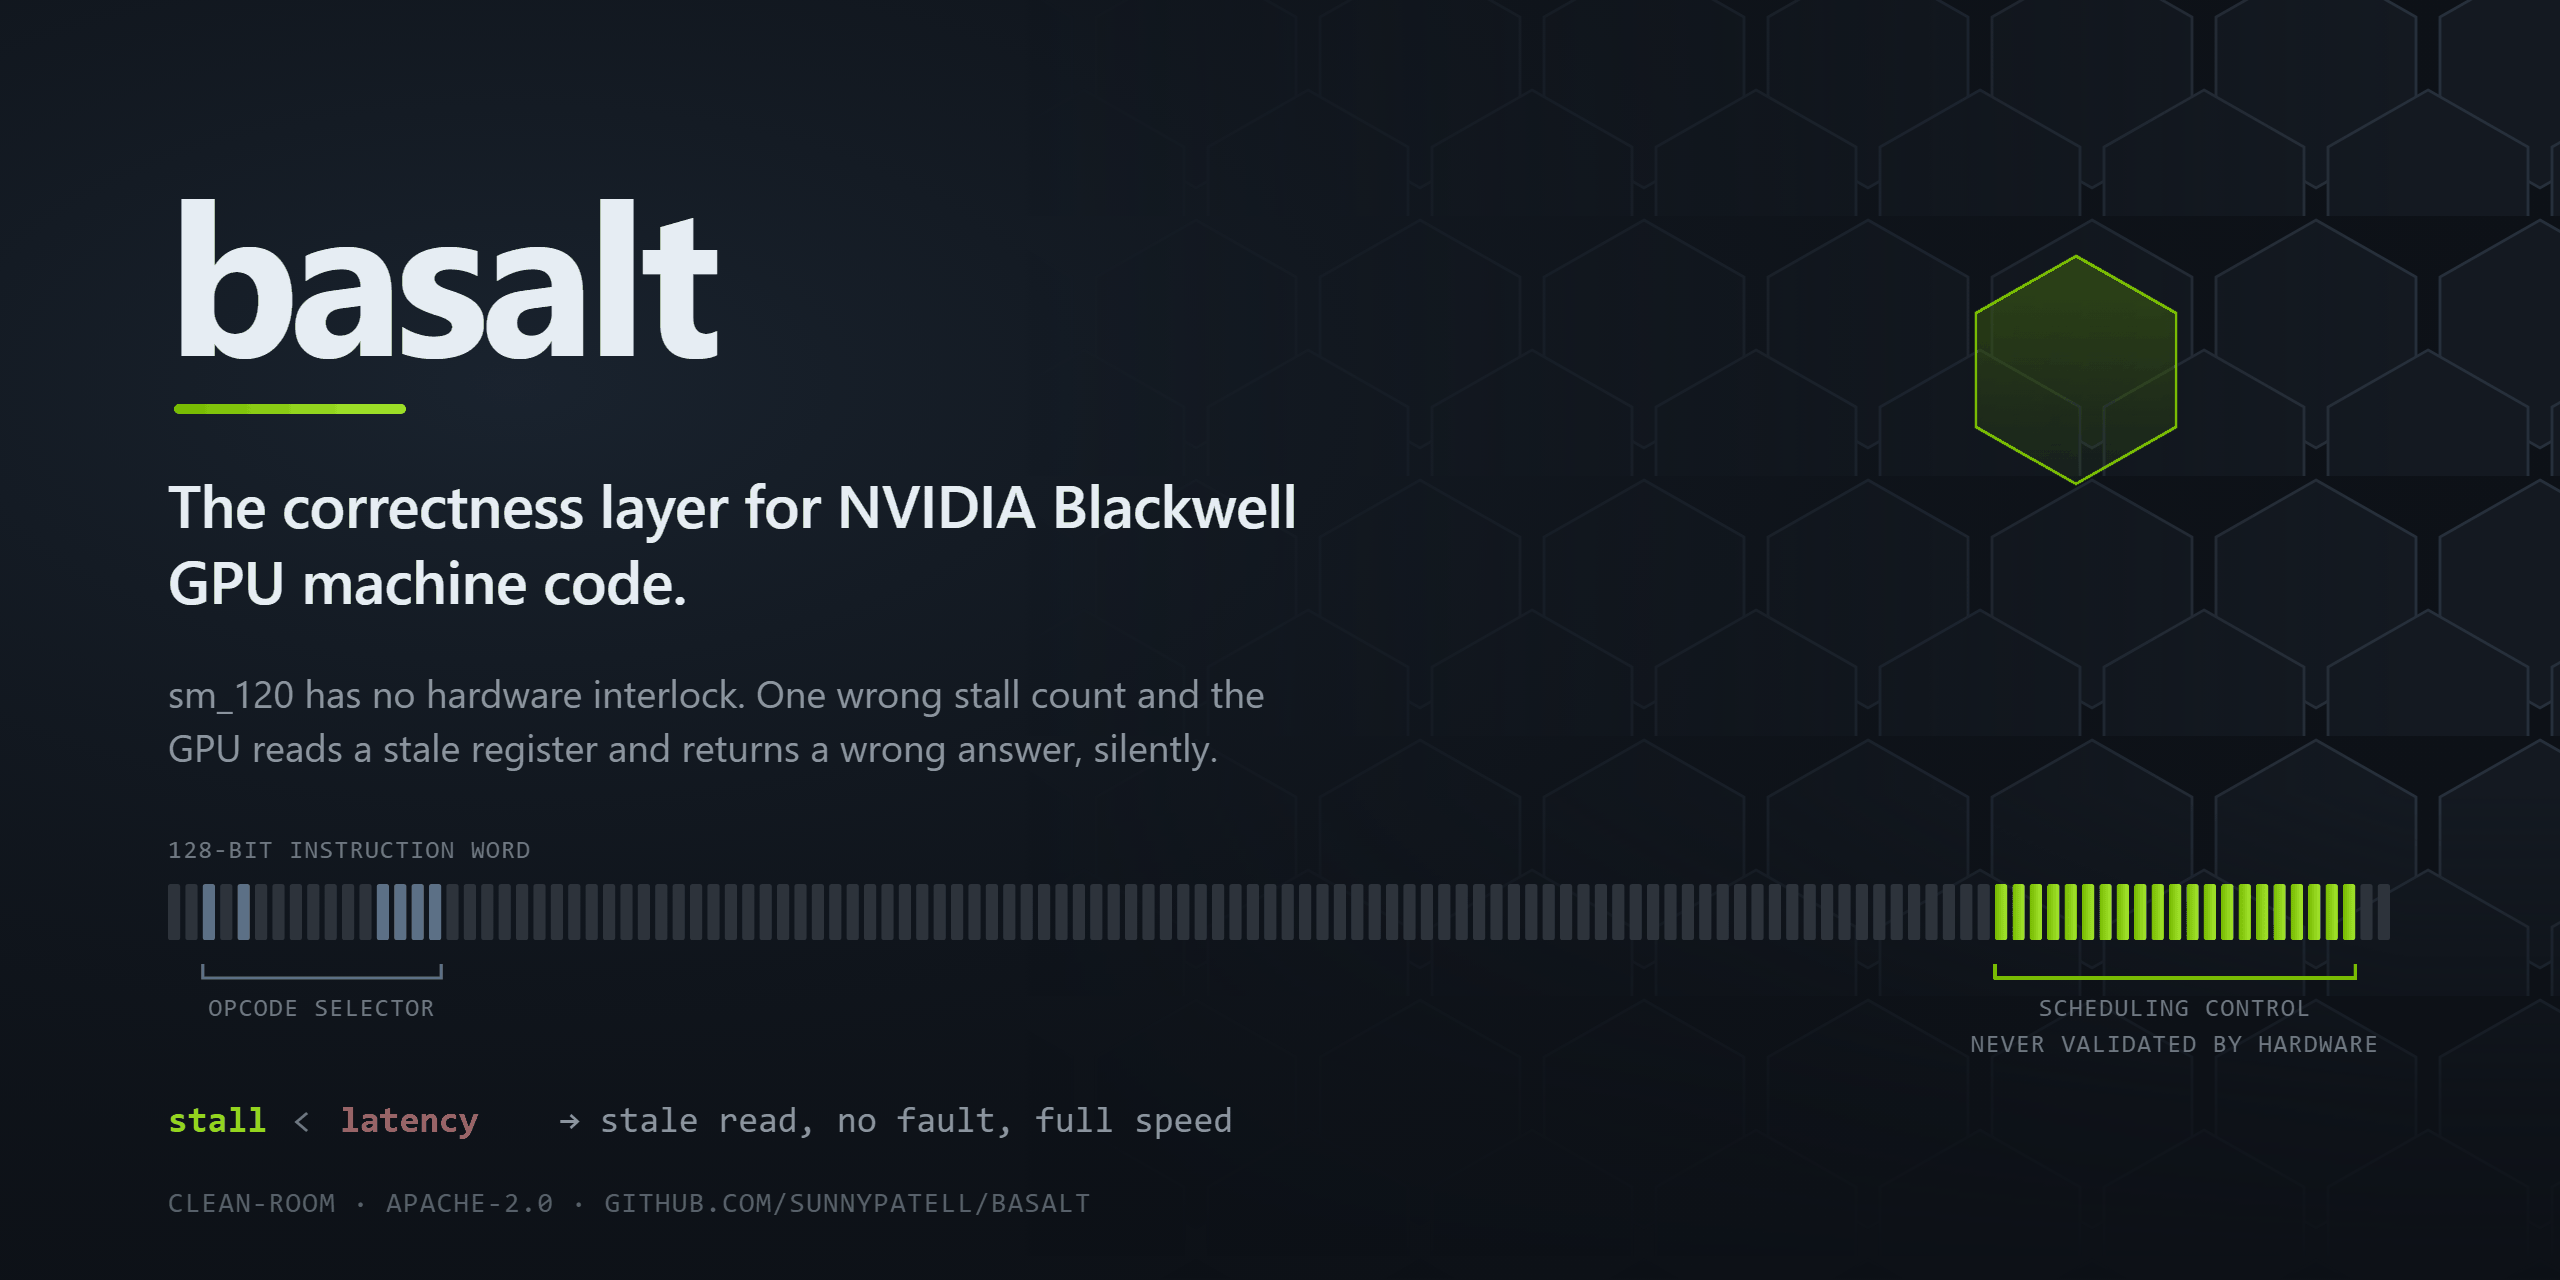
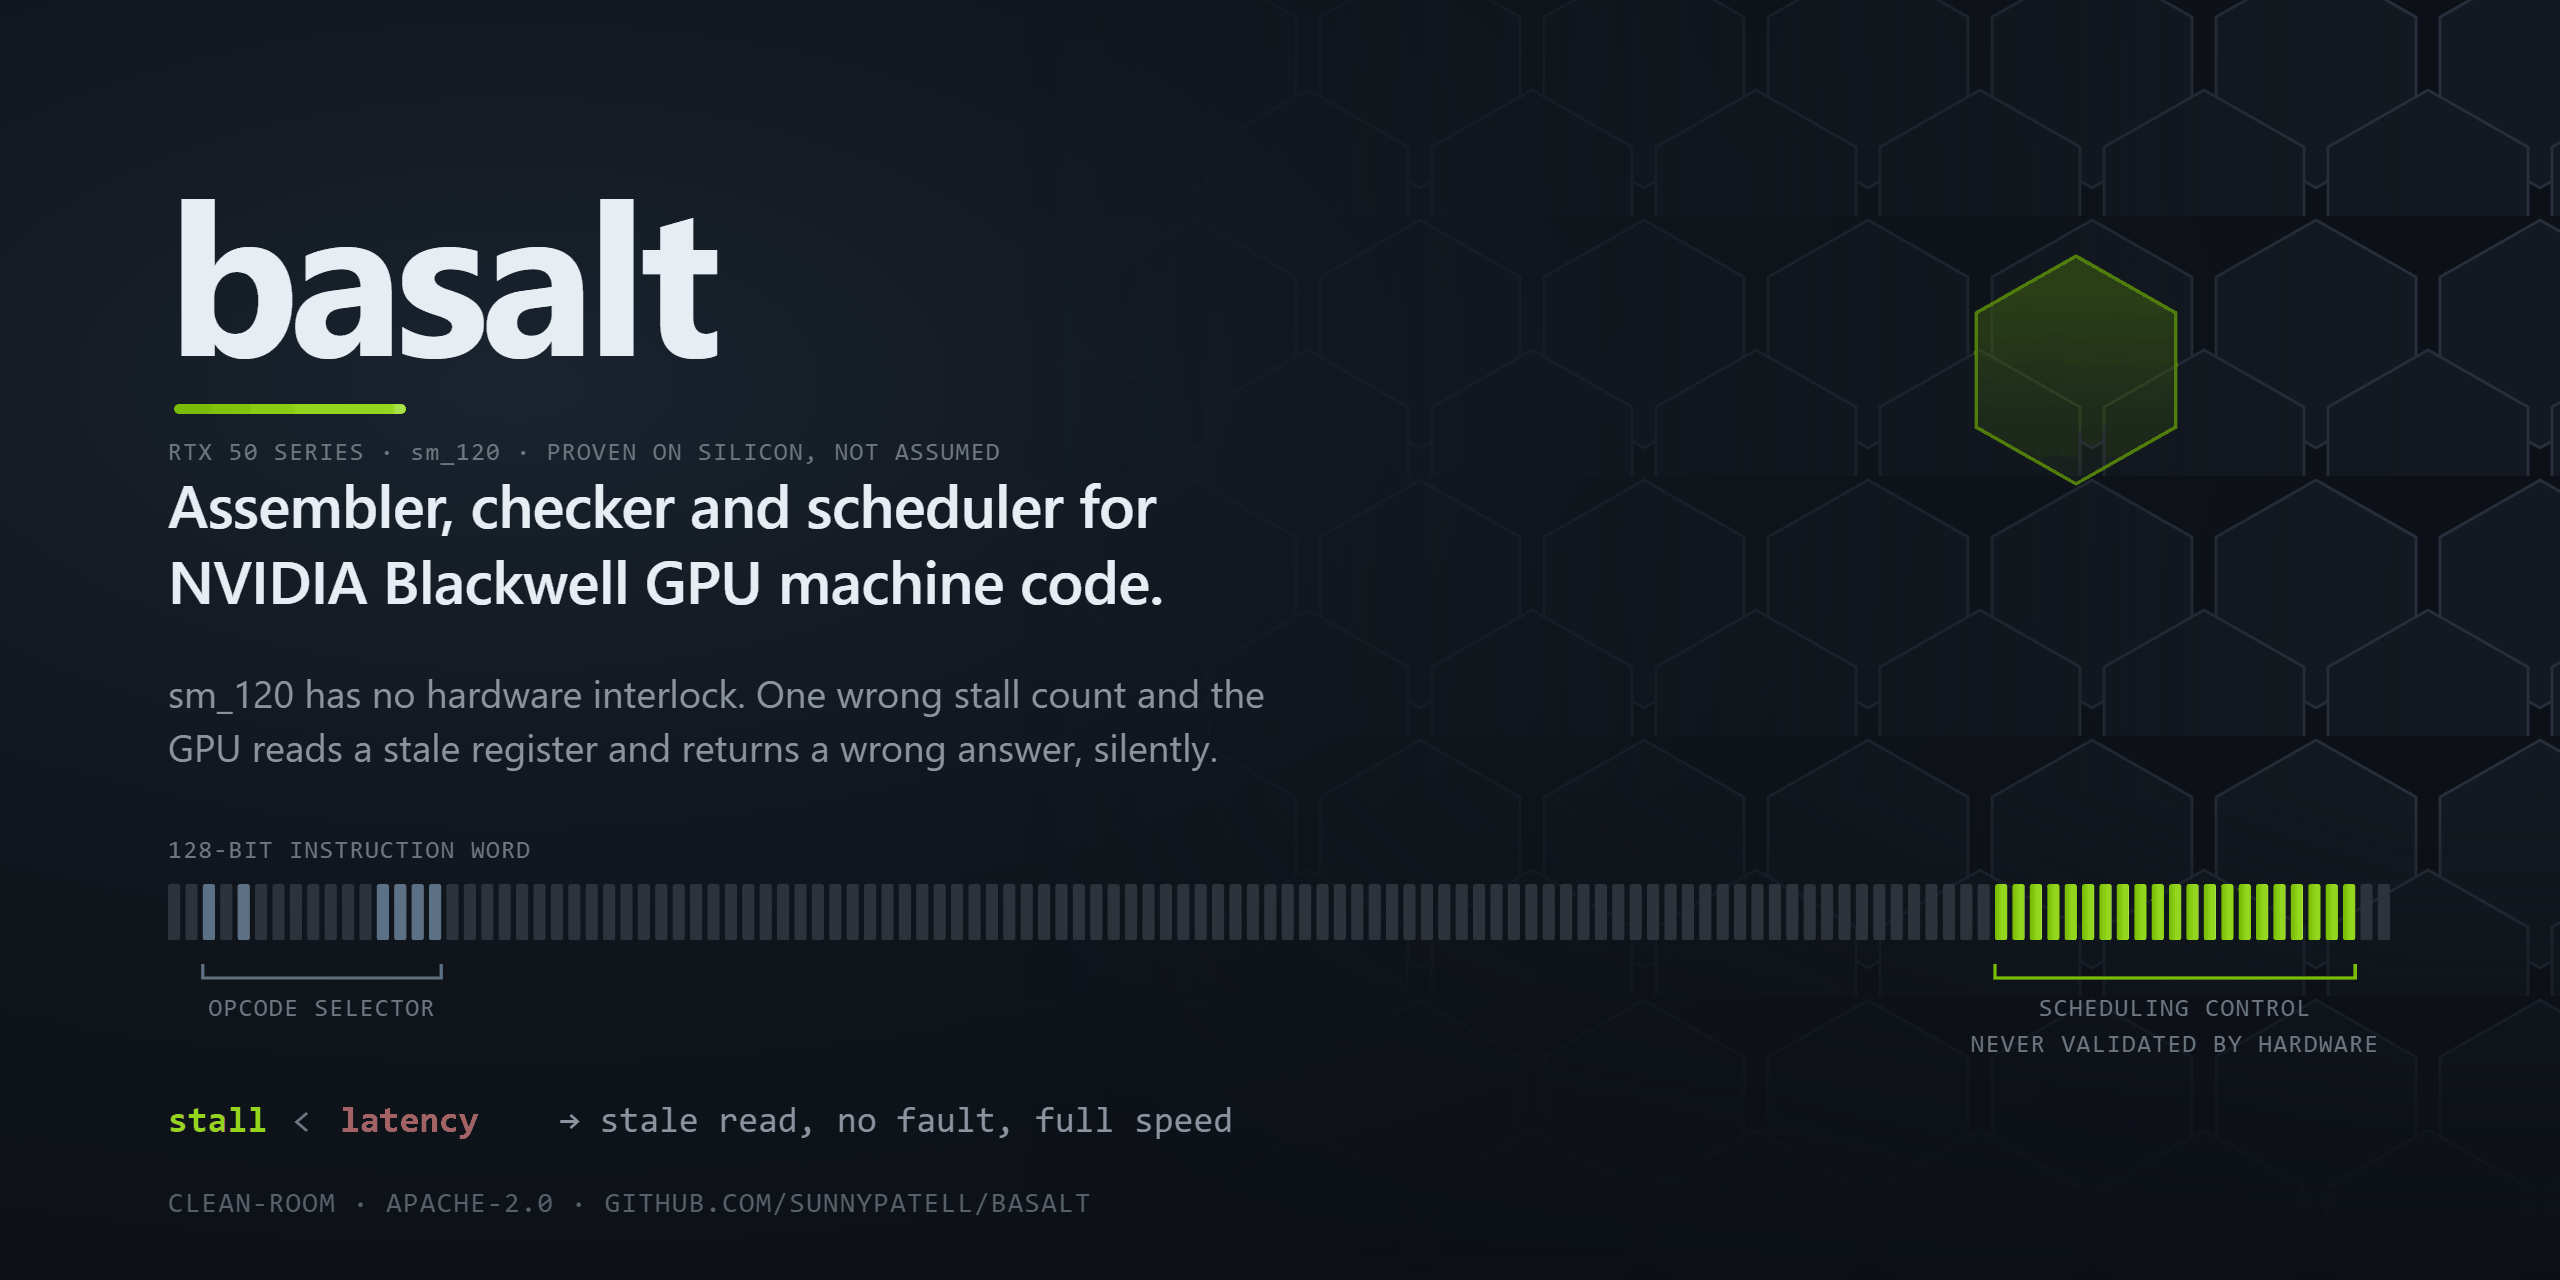
docs: branded on being the first that is checked, not the first that exists
being first to write an assembler for this architecture is not a claim worth
making and would lose to one search. being first to prove one correct is, and it
is the more interesting claim anyway: every existing tool assigns the scheduling
control bits from a latency table written by hand and then stops, nobody
publishes evidence that their assignment is right, and on an architecture with no
hardware interlock the difference between "it ran" and "it is correct" is
invisible.

the banner says what the thing is in the headline instead of an abstraction, and
carries an eyebrow with RTX 50 SERIES, sm_120 and proven on silicon so an owner
of one of those cards knows in the first second that it applies to them.

NVIDIA's own mark is deliberately not on it. their logo on a third-party banner
implies endorsement, and the clean-room position in NOTICE is worth more than the
recognition. their green and the hexagon motif carry the association without
making the claim.

topics filled to the twenty GitHub allows, weighted to what someone would
actually search: rtx-50-series, rtx-5090, assembler, instruction-scheduling,
compiler-backend, gpu-computing.

Changed region(s): [[0.0625, 0.3438, 0.5, 0.4688]]

diff --git a/README.md b/README.md
@@ -29,20 +29,23 @@ That is a strange kind of bug. It does not crash. It does not appear in a debugg
 
 Tools that generate machine code for this architecture *assign* those control bits from a latency model. basalt is the thing that checks the answer.
 
-## What is actually new here
+## The first one that is actually checked
 
 Machine-code assemblers for NVIDIA GPUs have existed for a decade, and there is prior work
-on Blackwell specifically: people have reverse engineered the encoding, and there are
-published cycle-level characterisations of `sm_120`. So "an assembler for this
-architecture" is not a claim worth making, and this repository does not make it.
+on Blackwell: the encoding has been reverse engineered before, and there are published
+cycle-level characterisations of `sm_120`. Being first to write one is not the claim here.
 
-Every one of those tools **assigns** the scheduling control bits from a latency table
-written by hand, and then stops. None of them checks the result. There is no tool that
-takes a cubin and tells you whether its control bits are safe, and nothing published that
-verifies a control-bit assignment against the hardware rather than against an assumption.
+Being first to **prove one correct** is.
 
-That is the gap basalt fills, and all three parts are held to the same standard: agree with
-the vendor exactly, or say why not.
+Every one of those tools assigns the scheduling control bits from a latency table written
+by hand, and then stops. None of them checks the result. Nobody publishes evidence that
+their assignment is right, there is no tool that reads a cubin and tells you whether its
+control bits are safe, and on an architecture with no hardware interlock the difference
+between "it ran" and "it is correct" is invisible: a wrong stall count produces a wrong
+number at full speed, with no fault and no warning.
+
+So basalt is three tools, each held to the same standard, and the standard is the point:
+**agree with the vendor exactly, or say why not.**
 
 | | What it does | How it is checked | Result |
 | :--- | :--- | :--- | ---: |
